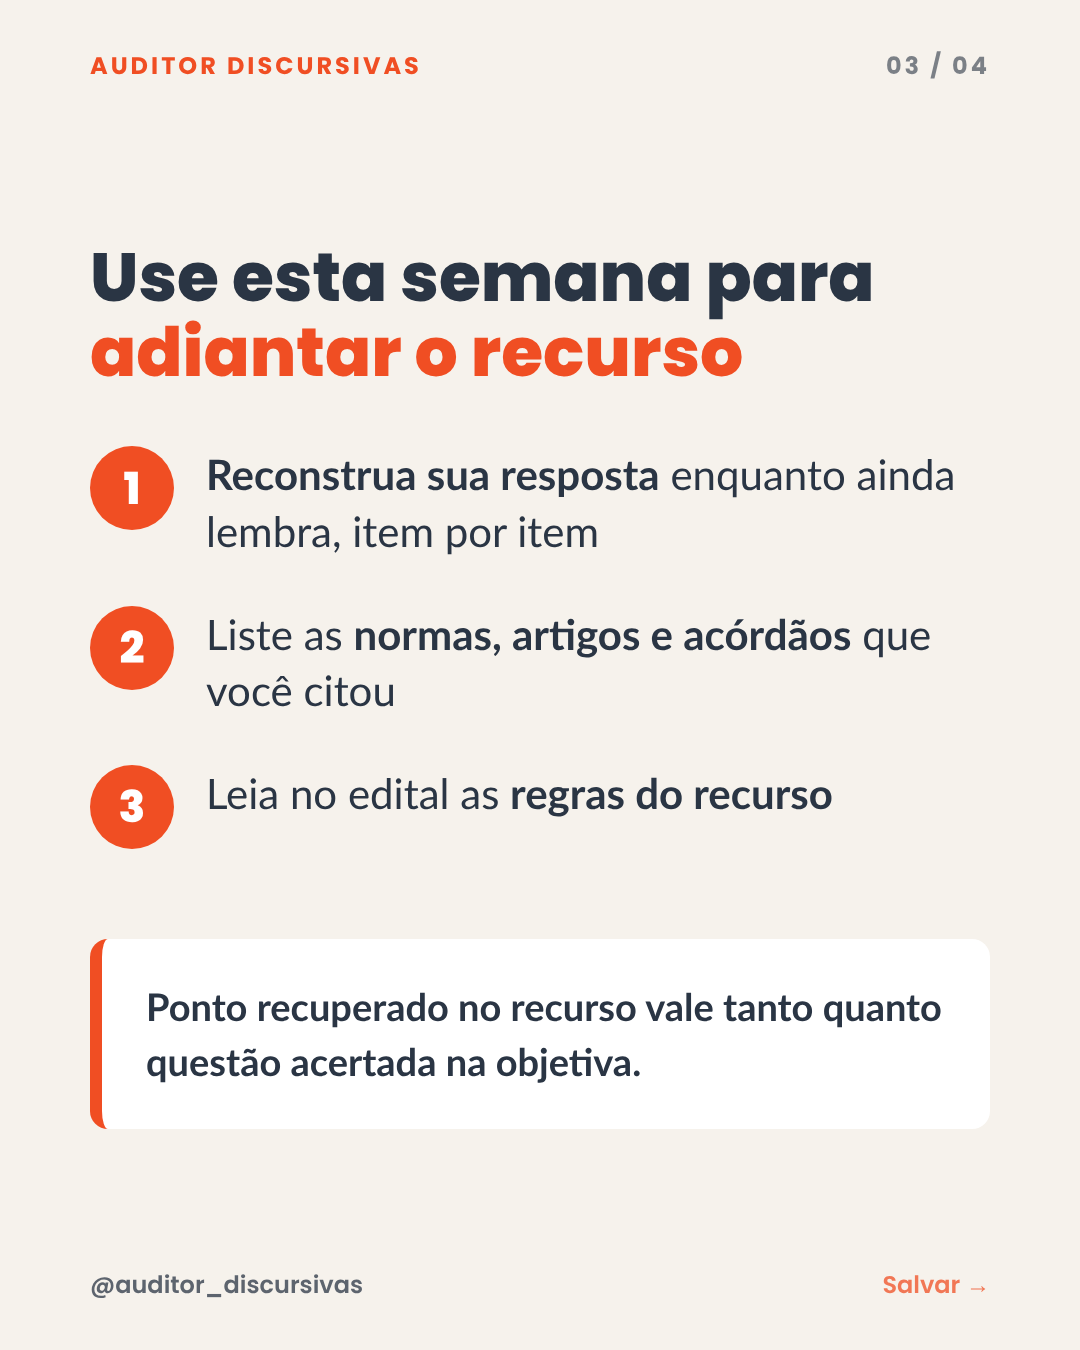
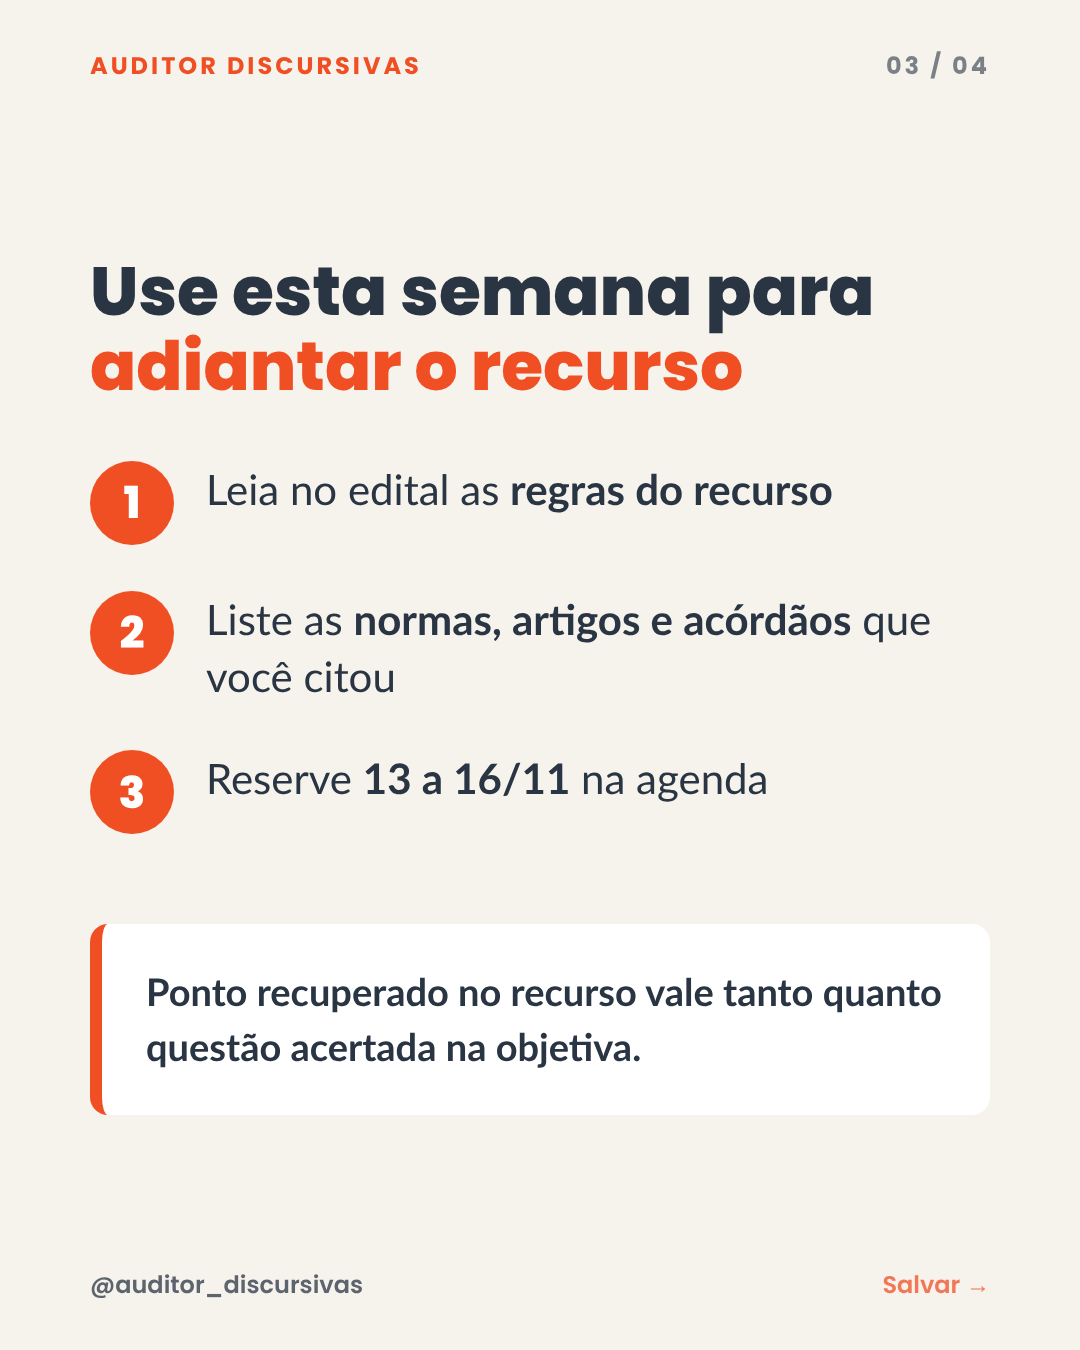
TCE-PE D-7 e D-1: tira 'reconstrua a resposta' (regra do Samuel, 02/11)
Claude-Session: https://claude.ai/code/session_01DzGKEj4kViGeh2DgZ7c7i9

diff --git a/fontes/campanha-recurso-tcepe-d7-d1-d/carrossel_d7.html b/fontes/campanha-recurso-tcepe-d7-d1-d/carrossel_d7.html
@@ -54,4 +54,4 @@ p.mid{font-size:38px;line-height:1.45}
 .st.claro{background:var(--creme);color:var(--navy)}
 .st.claro .op.a{background:#fff;color:var(--navy);border:3px solid var(--navy)}
 .s.claro .cred{opacity:1}
-</style></head><body><section class="s navy"><div class="top"><span class="wm">AUDITOR DISCURSIVAS</span><span class="ct">01 / 04</span></div><div class="sp"></div><div class="selo">RECURSO DE DISCURSIVA</div><h1>TCE-PE: a nota da discursiva sai em <em>7 dias.</em></h1><div class="chips"><span class="chip">TCE-PE</span><span class="chip">FGV</span><span class="chip">Cargos reaplicados</span></div><p class="big">E o recurso só vale de <b>13 a 16/11</b>. Quem se prepara agora chega pronto.</p><div class="sp"></div><div class="rod"><span>@auditor_discursivas</span><span class="sv">Arraste →</span></div></section><section class="s claro" style="justify-content:center"><div class="top"><span class="wm">AUDITOR DISCURSIVAS</span><span class="ct">02 / 04</span></div><h2>Na FGV, a janela de recurso é <em>uma só.</em></h2><div class="tl"><div class="ev"><span class="k">12/11</span><span><b>Resultado preliminar</b> da discursiva</span></div><div class="ev d"><span class="k">13 a 16/11</span><span><b>Recurso</b> contra a nota da discursiva</span></div><div class="ev"><span class="k">08/12</span><span><b>Resultado definitivo</b> e resultado final</span></div></div><div class="card">Não há padrão preliminar com recurso próprio, como no Cebraspe. <b>Você vê a nota e recorre no mesmo prazo curto.</b></div><div class="rod"><span>@auditor_discursivas</span><span class="sv">Salvar →</span></div></section><section class="s claro" style="justify-content:center"><div class="top"><span class="wm">AUDITOR DISCURSIVAS</span><span class="ct">03 / 04</span></div><h2>Use esta semana para <em>adiantar o recurso</em></h2><ul class="lista"><li><span class="num">1</span><span><b>Reconstrua sua resposta</b> enquanto ainda lembra, item por item</span></li><li><span class="num">2</span><span>Liste as <b>normas, artigos e acórdãos</b> que você citou</span></li><li><span class="num">3</span><span>Leia no edital as <b>regras do recurso</b></span></li></ul><div class="card"><b>Ponto recuperado no recurso vale tanto quanto questão acertada na objetiva.</b></div><div class="rod"><span>@auditor_discursivas</span><span class="sv">Salvar →</span></div></section><section class="s claro"><div class="top"><span class="wm">AUDITOR DISCURSIVAS</span><span class="ct">04 / 04</span></div><div class="sp"></div><h2>Quer chegar ao dia 13 <em>com o recurso encaminhado?</em></h2><p class="big" style="margin:44px 0 52px">Eu leio a sua resposta contra o espelho e digo se o recurso tem fundamento.</p><div class="box">Comente TCEPE<small>ou mande <b>TCEPE</b> no direct. A análise de viabilidade é gratuita.</small></div><div class="sp"></div><div class="autor" style="margin-top:0;align-items:center"><div class="foto" style="flex:0 0 190px;width:190px;height:190px"></div><div><b>Samuel Wolf</b><span style="display:block;color:var(--lar);opacity:1;font-weight:700;margin:4px 0 14px">Recursos de provas discursivas</span><ul class="cred"><li>✔ Engenheiro pelo ITA</li><li>✔ Auditor de Controle Externo do TCE-RJ</li><li>✔ Nomeado Auditor Fiscal da SEFAZ-RS</li><li>✔ Nomeado Auditor Fiscal da SEFIN Manaus</li></ul></div></div><div class="rod"><span>@auditor_discursivas</span><span></span></div></section><section class="st navy"><div class="wm">AUDITOR DISCURSIVAS</div><div class="selo">RECURSO DE DISCURSIVA</div><p class="big">Discursiva do TCE-PE</p><div class="big-n">7 dias</div><p class="big" style="margin:30px 0 60px">para a nota sair (12/11). O recurso é só de <b>13 a 16/11</b>.</p><div class="box">Mande TCEPE no direct.<small>A análise de viabilidade é gratuita.</small></div></section><section class="st claro"><div class="wm">AUDITOR DISCURSIVAS</div><h1 style="font-size:96px">Como você acha que foi na <em>discursiva do TCE-PE?</em></h1><div class="opt"><div class="op a">💪 Fui bem</div><div class="op b">😬 Posso precisar de recurso</div></div><p class="mid" style="margin-top:60px">Responda no direct com a sua opção. Se for a segunda, mande <b>TCEPE</b>.</p></section><section class="st claro"><div class="wm">AUDITOR DISCURSIVAS</div><h1 style="font-size:92px">Adiante o recurso <em>nesta semana</em></h1><ul class="lista"><li><span class="num">1</span><span>Reconstrua a resposta</span></li><li><span class="num">2</span><span>Liste as normas citadas</span></li><li><span class="num">3</span><span>Reserve 13 a 16/11</span></li></ul><div class="sp"></div><div class="box">Mande TCEPE no direct.<small>A análise de viabilidade é gratuita.</small></div><div class="autor"><div class="foto"></div><div><b>Samuel Wolf</b><span>Recursos de provas discursivas</span></div></div></section></body></html>
+</style></head><body><section class="s navy"><div class="top"><span class="wm">AUDITOR DISCURSIVAS</span><span class="ct">01 / 04</span></div><div class="sp"></div><div class="selo">RECURSO DE DISCURSIVA</div><h1>TCE-PE: a nota da discursiva sai em <em>7 dias.</em></h1><div class="chips"><span class="chip">TCE-PE</span><span class="chip">FGV</span><span class="chip">Cargos reaplicados</span></div><p class="big">E o recurso só vale de <b>13 a 16/11</b>. Quem se prepara agora chega pronto.</p><div class="sp"></div><div class="rod"><span>@auditor_discursivas</span><span class="sv">Arraste →</span></div></section><section class="s claro" style="justify-content:center"><div class="top"><span class="wm">AUDITOR DISCURSIVAS</span><span class="ct">02 / 04</span></div><h2>Na FGV, a janela de recurso é <em>uma só.</em></h2><div class="tl"><div class="ev"><span class="k">12/11</span><span><b>Resultado preliminar</b> da discursiva</span></div><div class="ev d"><span class="k">13 a 16/11</span><span><b>Recurso</b> contra a nota da discursiva</span></div><div class="ev"><span class="k">08/12</span><span><b>Resultado definitivo</b> e resultado final</span></div></div><div class="card">Não há padrão preliminar com recurso próprio, como no Cebraspe. <b>Você vê a nota e recorre no mesmo prazo curto.</b></div><div class="rod"><span>@auditor_discursivas</span><span class="sv">Salvar →</span></div></section><section class="s claro" style="justify-content:center"><div class="top"><span class="wm">AUDITOR DISCURSIVAS</span><span class="ct">03 / 04</span></div><h2>Use esta semana para <em>adiantar o recurso</em></h2><ul class="lista"><li><span class="num">1</span><span>Leia no edital as <b>regras do recurso</b></span></li><li><span class="num">2</span><span>Liste as <b>normas, artigos e acórdãos</b> que você citou</span></li><li><span class="num">3</span><span>Reserve <b>13 a 16/11</b> na agenda</span></li></ul><div class="card"><b>Ponto recuperado no recurso vale tanto quanto questão acertada na objetiva.</b></div><div class="rod"><span>@auditor_discursivas</span><span class="sv">Salvar →</span></div></section><section class="s claro"><div class="top"><span class="wm">AUDITOR DISCURSIVAS</span><span class="ct">04 / 04</span></div><div class="sp"></div><h2>Quer chegar ao dia 13 <em>com o recurso encaminhado?</em></h2><p class="big" style="margin:44px 0 52px">Eu leio a sua resposta contra o espelho e digo se o recurso tem fundamento.</p><div class="box">Comente TCEPE<small>ou mande <b>TCEPE</b> no direct. A análise de viabilidade é gratuita.</small></div><div class="sp"></div><div class="autor" style="margin-top:0;align-items:center"><div class="foto" style="flex:0 0 190px;width:190px;height:190px"></div><div><b>Samuel Wolf</b><span style="display:block;color:var(--lar);opacity:1;font-weight:700;margin:4px 0 14px">Recursos de provas discursivas</span><ul class="cred"><li>✔ Engenheiro pelo ITA</li><li>✔ Auditor de Controle Externo do TCE-RJ</li><li>✔ Nomeado Auditor Fiscal da SEFAZ-RS</li><li>✔ Nomeado Auditor Fiscal da SEFIN Manaus</li></ul></div></div><div class="rod"><span>@auditor_discursivas</span><span></span></div></section><section class="st navy"><div class="wm">AUDITOR DISCURSIVAS</div><div class="selo">RECURSO DE DISCURSIVA</div><p class="big">Discursiva do TCE-PE</p><div class="big-n">7 dias</div><p class="big" style="margin:30px 0 60px">para a nota sair (12/11). O recurso é só de <b>13 a 16/11</b>.</p><div class="box">Mande TCEPE no direct.<small>A análise de viabilidade é gratuita.</small></div></section><section class="st claro"><div class="wm">AUDITOR DISCURSIVAS</div><h1 style="font-size:96px">Como você acha que foi na <em>discursiva do TCE-PE?</em></h1><div class="opt"><div class="op a">💪 Fui bem</div><div class="op b">😬 Posso precisar de recurso</div></div><p class="mid" style="margin-top:60px">Responda no direct com a sua opção. Se for a segunda, mande <b>TCEPE</b>.</p></section><section class="st claro"><div class="wm">AUDITOR DISCURSIVAS</div><h1 style="font-size:92px">Adiante o recurso <em>nesta semana</em></h1><ul class="lista"><li><span class="num">1</span><span>Leia as regras do recurso</span></li><li><span class="num">2</span><span>Liste as normas citadas</span></li><li><span class="num">3</span><span>Reserve 13 a 16/11</span></li></ul><div class="sp"></div><div class="box">Mande TCEPE no direct.<small>A análise de viabilidade é gratuita.</small></div><div class="autor"><div class="foto"></div><div><b>Samuel Wolf</b><span>Recursos de provas discursivas</span></div></div></section></body></html>

diff --git a/fontes/campanha-recurso-tcepe-d7-d1-d/carrossel_d1.html b/fontes/campanha-recurso-tcepe-d7-d1-d/carrossel_d1.html
@@ -54,4 +54,4 @@ p.mid{font-size:38px;line-height:1.45}
 .st.claro{background:var(--creme);color:var(--navy)}
 .st.claro .op.a{background:#fff;color:var(--navy);border:3px solid var(--navy)}
 .s.claro .cred{opacity:1}
-</style></head><body><section class="s navy"><div class="top"><span class="wm">AUDITOR DISCURSIVAS</span><span class="ct">01 / 04</span></div><div class="sp"></div><div class="selo">RECURSO DE DISCURSIVA</div><h1>TCE-PE: a nota da discursiva sai <em>amanhã.</em></h1><div class="chips"><span class="chip">TCE-PE</span><span class="chip">FGV</span><span class="chip">Recurso 13 a 16/11</span></div><p class="big">São só 4 dias de prazo. <b>Deixe tudo pronto hoje.</b></p><div class="sp"></div><div class="rod"><span>@auditor_discursivas</span><span class="sv">Arraste →</span></div></section><section class="s claro" style="justify-content:center"><div class="top"><span class="wm">AUDITOR DISCURSIVAS</span><span class="ct">02 / 04</span></div><h2>Checklist para <em>hoje</em></h2><ul class="lista"><li><span class="num">1</span><span>A <b>reconstrução da sua resposta</b>, item por item</span></li><li><span class="num">2</span><span>As <b>normas e fundamentos</b> que você usou</span></li><li><span class="num">3</span><span><b>13 a 16/11</b> reservados na agenda</span></li></ul><div class="card">Quando a nota sair, compare <b>item por item</b> com o espelho da banca.</div><div class="rod"><span>@auditor_discursivas</span><span class="sv">Salvar →</span></div></section><section class="s claro" style="justify-content:center"><div class="top"><span class="wm">AUDITOR DISCURSIVAS</span><span class="ct">03 / 04</span></div><h2>Onde o recurso <em>tem argumento</em></h2><ul class="lista"><li><span class="num">1</span><span>Você <b>abordou o item</b> e ele veio zerado ou parcial</span></li><li><span class="num">2</span><span>Você usou <b>fundamento equivalente</b> ao do espelho</span></li><li><span class="num">3</span><span>Houve desconto de forma <b>sem erro identificável</b></span></li></ul><div class="card">Recurso bom não reclama da nota: <b>aponta a linha da sua folha que atende ao critério.</b></div><div class="rod"><span>@auditor_discursivas</span><span class="sv">Salvar →</span></div></section><section class="s claro"><div class="top"><span class="wm">AUDITOR DISCURSIVAS</span><span class="ct">04 / 04</span></div><div class="sp"></div><h2>Saiu e não concordou? <em>Fala comigo.</em></h2><p class="big" style="margin:44px 0 52px">A análise começa assim que você me mandar a sua nota.</p><div class="box">Comente TCEPE<small>ou mande <b>TCEPE</b> no direct. A análise de viabilidade é gratuita.</small></div><div class="sp"></div><div class="autor" style="margin-top:0;align-items:center"><div class="foto" style="flex:0 0 190px;width:190px;height:190px"></div><div><b>Samuel Wolf</b><span style="display:block;color:var(--lar);opacity:1;font-weight:700;margin:4px 0 14px">Recursos de provas discursivas</span><ul class="cred"><li>✔ Engenheiro pelo ITA</li><li>✔ Auditor de Controle Externo do TCE-RJ</li><li>✔ Nomeado Auditor Fiscal da SEFAZ-RS</li><li>✔ Nomeado Auditor Fiscal da SEFIN Manaus</li></ul></div></div><div class="rod"><span>@auditor_discursivas</span><span></span></div></section><section class="st navy"><div class="wm">AUDITOR DISCURSIVAS</div><div class="selo">RECURSO DE DISCURSIVA</div><h1 style="font-size:110px">Amanhã sai a nota da discursiva do <em>TCE-PE.</em></h1><p class="big" style="margin:50px 0 60px">Recurso: <b>13 a 16/11</b>.</p><div class="box">Mande TCEPE no direct.<small>A análise de viabilidade é gratuita.</small></div></section><section class="st claro"><div class="wm">AUDITOR DISCURSIVAS</div><h1 style="font-size:96px">Checklist para <em>hoje</em></h1><ul class="lista"><li><span class="num">1</span><span>Resposta reconstruída</span></li><li><span class="num">2</span><span>Normas e fundamentos listados</span></li><li><span class="num">3</span><span>13 a 16/11 na agenda</span></li></ul></section><section class="st claro"><div class="wm">AUDITOR DISCURSIVAS</div><h1 style="font-size:92px">Não concordou com a nota? <em>Fala comigo.</em></h1><p class="big" style="margin:50px 0 60px">Eu leio a sua resposta contra o espelho e digo se o recurso tem fundamento.</p><div class="box">Mande TCEPE no direct.<small>A análise de viabilidade é gratuita.</small></div><div class="autor"><div class="foto"></div><div><b>Samuel Wolf</b><span>Recursos de provas discursivas</span></div></div></section></body></html>
+</style></head><body><section class="s navy"><div class="top"><span class="wm">AUDITOR DISCURSIVAS</span><span class="ct">01 / 04</span></div><div class="sp"></div><div class="selo">RECURSO DE DISCURSIVA</div><h1>TCE-PE: a nota da discursiva sai <em>amanhã.</em></h1><div class="chips"><span class="chip">TCE-PE</span><span class="chip">FGV</span><span class="chip">Recurso 13 a 16/11</span></div><p class="big">São só 4 dias de prazo. <b>Deixe tudo pronto hoje.</b></p><div class="sp"></div><div class="rod"><span>@auditor_discursivas</span><span class="sv">Arraste →</span></div></section><section class="s claro" style="justify-content:center"><div class="top"><span class="wm">AUDITOR DISCURSIVAS</span><span class="ct">02 / 04</span></div><h2>Checklist para <em>hoje</em></h2><ul class="lista"><li><span class="num">1</span><span>As <b>regras do recurso</b> no edital, já lidas</span></li><li><span class="num">2</span><span>As <b>normas e fundamentos</b> que você usou</span></li><li><span class="num">3</span><span><b>13 a 16/11</b> reservados na agenda</span></li></ul><div class="card">Quando a nota sair, compare <b>item por item</b> com o espelho da banca.</div><div class="rod"><span>@auditor_discursivas</span><span class="sv">Salvar →</span></div></section><section class="s claro" style="justify-content:center"><div class="top"><span class="wm">AUDITOR DISCURSIVAS</span><span class="ct">03 / 04</span></div><h2>Onde o recurso <em>tem argumento</em></h2><ul class="lista"><li><span class="num">1</span><span>Você <b>abordou o item</b> e ele veio zerado ou parcial</span></li><li><span class="num">2</span><span>Você usou <b>fundamento equivalente</b> ao do espelho</span></li><li><span class="num">3</span><span>Houve desconto de forma <b>sem erro identificável</b></span></li></ul><div class="card">Recurso bom não reclama da nota: <b>aponta a linha da sua folha que atende ao critério.</b></div><div class="rod"><span>@auditor_discursivas</span><span class="sv">Salvar →</span></div></section><section class="s claro"><div class="top"><span class="wm">AUDITOR DISCURSIVAS</span><span class="ct">04 / 04</span></div><div class="sp"></div><h2>Saiu e não concordou? <em>Fala comigo.</em></h2><p class="big" style="margin:44px 0 52px">A análise começa assim que você me mandar a sua nota.</p><div class="box">Comente TCEPE<small>ou mande <b>TCEPE</b> no direct. A análise de viabilidade é gratuita.</small></div><div class="sp"></div><div class="autor" style="margin-top:0;align-items:center"><div class="foto" style="flex:0 0 190px;width:190px;height:190px"></div><div><b>Samuel Wolf</b><span style="display:block;color:var(--lar);opacity:1;font-weight:700;margin:4px 0 14px">Recursos de provas discursivas</span><ul class="cred"><li>✔ Engenheiro pelo ITA</li><li>✔ Auditor de Controle Externo do TCE-RJ</li><li>✔ Nomeado Auditor Fiscal da SEFAZ-RS</li><li>✔ Nomeado Auditor Fiscal da SEFIN Manaus</li></ul></div></div><div class="rod"><span>@auditor_discursivas</span><span></span></div></section><section class="st navy"><div class="wm">AUDITOR DISCURSIVAS</div><div class="selo">RECURSO DE DISCURSIVA</div><h1 style="font-size:110px">Amanhã sai a nota da discursiva do <em>TCE-PE.</em></h1><p class="big" style="margin:50px 0 60px">Recurso: <b>13 a 16/11</b>.</p><div class="box">Mande TCEPE no direct.<small>A análise de viabilidade é gratuita.</small></div></section><section class="st claro"><div class="wm">AUDITOR DISCURSIVAS</div><h1 style="font-size:96px">Checklist para <em>hoje</em></h1><ul class="lista"><li><span class="num">1</span><span>Regras do recurso lidas</span></li><li><span class="num">2</span><span>Normas e fundamentos listados</span></li><li><span class="num">3</span><span>13 a 16/11 na agenda</span></li></ul></section><section class="st claro"><div class="wm">AUDITOR DISCURSIVAS</div><h1 style="font-size:92px">Não concordou com a nota? <em>Fala comigo.</em></h1><p class="big" style="margin:50px 0 60px">Eu leio a sua resposta contra o espelho e digo se o recurso tem fundamento.</p><div class="box">Mande TCEPE no direct.<small>A análise de viabilidade é gratuita.</small></div><div class="autor"><div class="foto"></div><div><b>Samuel Wolf</b><span>Recursos de provas discursivas</span></div></div></section></body></html>

diff --git a/fontes/campanha-recurso-tcepe-d7-d1-d/gerar.py b/fontes/campanha-recurso-tcepe-d7-d1-d/gerar.py
@@ -56,9 +56,9 @@ CAMP = {
            ('08/12', '<b>Resultado definitivo</b> e resultado final', False)],
           'Não há padrão preliminar com recurso próprio, como no Cebraspe. <b>Você vê a nota e recorre no mesmo prazo curto.</b>'),
     lista(3, 4, 'Use esta semana para <em>adiantar o recurso</em>',
-          ['<b>Reconstrua sua resposta</b> enquanto ainda lembra, item por item',
+          ['Leia no edital as <b>regras do recurso</b>',
            'Liste as <b>normas, artigos e acórdãos</b> que você citou',
-           'Leia no edital as <b>regras do recurso</b>'],
+           'Reserve <b>13 a 16/11</b> na agenda'],
           '<b>Ponto recuperado no recurso vale tanto quanto questão acertada na objetiva.</b>'),
     fecho(4, 4, 'Quer chegar ao dia 13 <em>com o recurso encaminhado?</em>', 'Eu leio a sua resposta contra o espelho e digo se o recurso tem fundamento.'),
  ], stories=[
@@ -68,14 +68,14 @@ CAMP = {
           '<div class="opt"><div class="op a">💪 Fui bem</div><div class="op b">😬 Posso precisar de recurso</div></div>'
           '<p class="mid" style="margin-top:60px">Responda no direct com a sua opção. Se for a segunda, mande <b>TCEPE</b>.</p>'),
     story('<h1 style="font-size:92px">Adiante o recurso <em>nesta semana</em></h1>'
-          '<ul class="lista"><li><span class="num">1</span><span>Reconstrua a resposta</span></li><li><span class="num">2</span><span>Liste as normas citadas</span></li>'
+          '<ul class="lista"><li><span class="num">1</span><span>Leia as regras do recurso</span></li><li><span class="num">2</span><span>Liste as normas citadas</span></li>'
           '<li><span class="num">3</span><span>Reserve 13 a 16/11</span></li></ul><div class="sp"></div>' + BOX_ST + AUTOR_ST),
  ]),
  'd1': dict(slides=[
     capa(1, 4, 'TCE-PE: a nota da discursiva sai <em>amanhã.</em>', ['TCE-PE', 'FGV', 'Recurso 13 a 16/11'],
          'São só 4 dias de prazo. <b>Deixe tudo pronto hoje.</b>'),
     lista(2, 4, 'Checklist para <em>hoje</em>',
-          ['A <b>reconstrução da sua resposta</b>, item por item',
+          ['As <b>regras do recurso</b> no edital, já lidas',
            'As <b>normas e fundamentos</b> que você usou',
            '<b>13 a 16/11</b> reservados na agenda'],
           'Quando a nota sair, compare <b>item por item</b> com o espelho da banca.'),
@@ -88,7 +88,7 @@ CAMP = {
  ], stories=[
     story('<div class="selo">RECURSO DE DISCURSIVA</div><h1 style="font-size:110px">Amanhã sai a nota da discursiva do <em>TCE-PE.</em></h1>'
           '<p class="big" style="margin:50px 0 60px">Recurso: <b>13 a 16/11</b>.</p>' + BOX_ST),
-    story('<h1 style="font-size:96px">Checklist para <em>hoje</em></h1><ul class="lista"><li><span class="num">1</span><span>Resposta reconstruída</span></li>'
+    story('<h1 style="font-size:96px">Checklist para <em>hoje</em></h1><ul class="lista"><li><span class="num">1</span><span>Regras do recurso lidas</span></li>'
           '<li><span class="num">2</span><span>Normas e fundamentos listados</span></li><li><span class="num">3</span><span>13 a 16/11 na agenda</span></li></ul>'),
     story('<h1 style="font-size:92px">Não concordou com a nota? <em>Fala comigo.</em></h1><p class="big" style="margin:50px 0 60px">Eu leio a sua resposta contra o espelho e digo se o recurso tem fundamento.</p>'
           + BOX_ST + AUTOR_ST),
